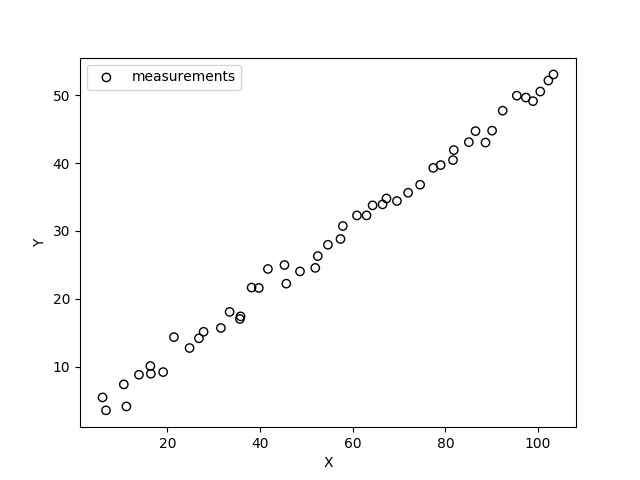
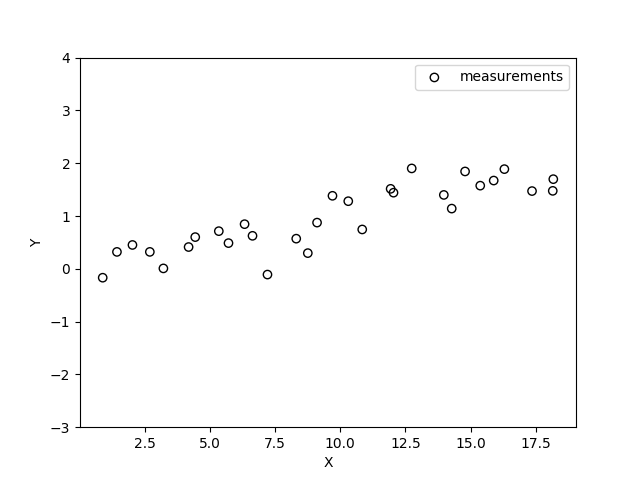
simple filter

diff --git a/src/simple_filter.py b/src/simple_filter.py
@@ -2,7 +2,6 @@ import cv2 as cv
 import numpy as np
 import matplotlib.pyplot as plt
 from sensor import Sensor
-from matplotlib.patches import Ellipse
 
 
 def construct_filter(dim_state, dim_measurement,
@@ -77,20 +76,46 @@ def design_simple_filter():
             state_init, cov_state_init)
 
 
-def plot_state(means, covariances, ax):
+def get_ellipse_from_covariance(mat_cov, val_chisquare=2.4477):
+    """95% confidence interval => 2.4477 chisquare value."""
+    # calculate largest and smallest eigenvalues and eigenvectors
+    val_eig, vec_eig = np.linalg.eig(mat_cov)
+    idx_max, idx_min = np.argmax(val_eig), np.argmin(val_eig)
+    val_eig_max, val_eig_min = val_eig[idx_max], val_eig[idx_min]
+    vec_eig_max = vec_eig[idx_max]
+
+    # angle between X-axis and largest eigenvector
+    angle = np.arctan2(vec_eig_max[1], vec_eig_max[0])
+    if angle < 0:  # [-pi, pi] --> [0, 2pi]
+        angle += 2*np.pi
+
+    # ellipse points
+    a = val_chisquare * np.sqrt(val_eig_max)
+    b = val_chisquare * np.sqrt(val_eig_min)
+
+    points_along_curve = np.linspace(0, 2*np.pi)
+    x_ellipse = a * np.cos(points_along_curve)
+    y_ellipse = b * np.sin(points_along_curve)
+    points_ellipse_2_N = np.stack([x_ellipse, y_ellipse], axis=0)
+
+    # rotate ellipse
+    mat_rotation = np.array([
+        [np.cos(angle), np.sin(angle)],
+        [-np.sin(angle), np.cos(angle)]
+    ])
+    points_ellipse_2_N = mat_rotation @ points_ellipse_2_N
+    points_ellipse = np.transpose(points_ellipse_2_N)
+
+    return points_ellipse
+
+
+def plot_states(means, covariances, ax):
     for mean, cov in zip(means, covariances):
-        pearson = cov[0, 1]/np.sqrt(cov[0, 0] * cov[1, 1])
-        # Using a special case to obtain the eigenvalues of this
-        # two-dimensionl dataset.
-        ell_radius_x = np.sqrt(1 + pearson)
-        ell_radius_y = np.sqrt(1 - pearson)
-        ellipse = Ellipse(
-            mean,
-            width=ell_radius_x * 2,
-            height=ell_radius_y * 2,
-            facecolor="none", edgecolor="blue", alpha=0.7
+        points_ellipse = get_ellipse_from_covariance(cov)
+        ax.plot(
+            points_ellipse[:, 0]+mean[0], points_ellipse[:, 1]+mean[1],
+            c="g"
         )
-        ax.add_patch(ellipse)
 
 
 if __name__ == "__main__":
@@ -118,16 +143,17 @@ if __name__ == "__main__":
     arr_cov = np.array(list_cov)
 
     fig, ax = plt.subplots()
-    plot_state(arr_state[:, ::2], arr_cov, ax)
-
+    measurements *= 0.3048  # feet to meters
     ax.scatter(
         measurements[:, 0], measurements[:, 1],
         label="measurements", facecolors="none", edgecolors="black"
     )
-    plt.scatter(
+    plt.plot(
         arr_state[:, 0], arr_state[:, 2],
-        label="filtered"
+        label="filtered", lw=2, c="red"
     )
+    plot_states(arr_state[:, ::2], arr_cov, ax)
+    plt.ylim(-3, 4)
 
     plt.xlabel("X")
     plt.ylabel("Y")

diff --git a/src/sensor.py b/src/sensor.py
@@ -16,16 +16,18 @@ class Sensor:
 
 
 if __name__ == "__main__":
-    pos = (4, 3)
-    vel = (2, 1)
+    pos = (0, 0)
+    vel = (2, .2)
     sensor = Sensor(pos, vel)
 
-    n_measurements = 50
+    n_measurements = 30
     measurements = np.array([sensor.read() for _ in range(n_measurements)])
+    measurements *= 0.3048  # feet to meters
     plt.scatter(
         measurements[:, 0], measurements[:, 1],
         label="measurements", facecolors="none", edgecolors="black"
     )
+    plt.ylim(-3, 4)
     plt.xlabel("X")
     plt.ylabel("Y")
     plt.legend()

diff --git a/README.md b/README.md
@@ -10,3 +10,9 @@ The sensor reads 2D position of the object. We assume a fixed velocity for the o
 python src/sensor.py
 ```
 ![Measurements](media_readme/measurements.png)
+
+2. Filter
+```python
+python src/simple_filter.py
+```
+![Filter (simple)](media_readme/filter_simple.png)
